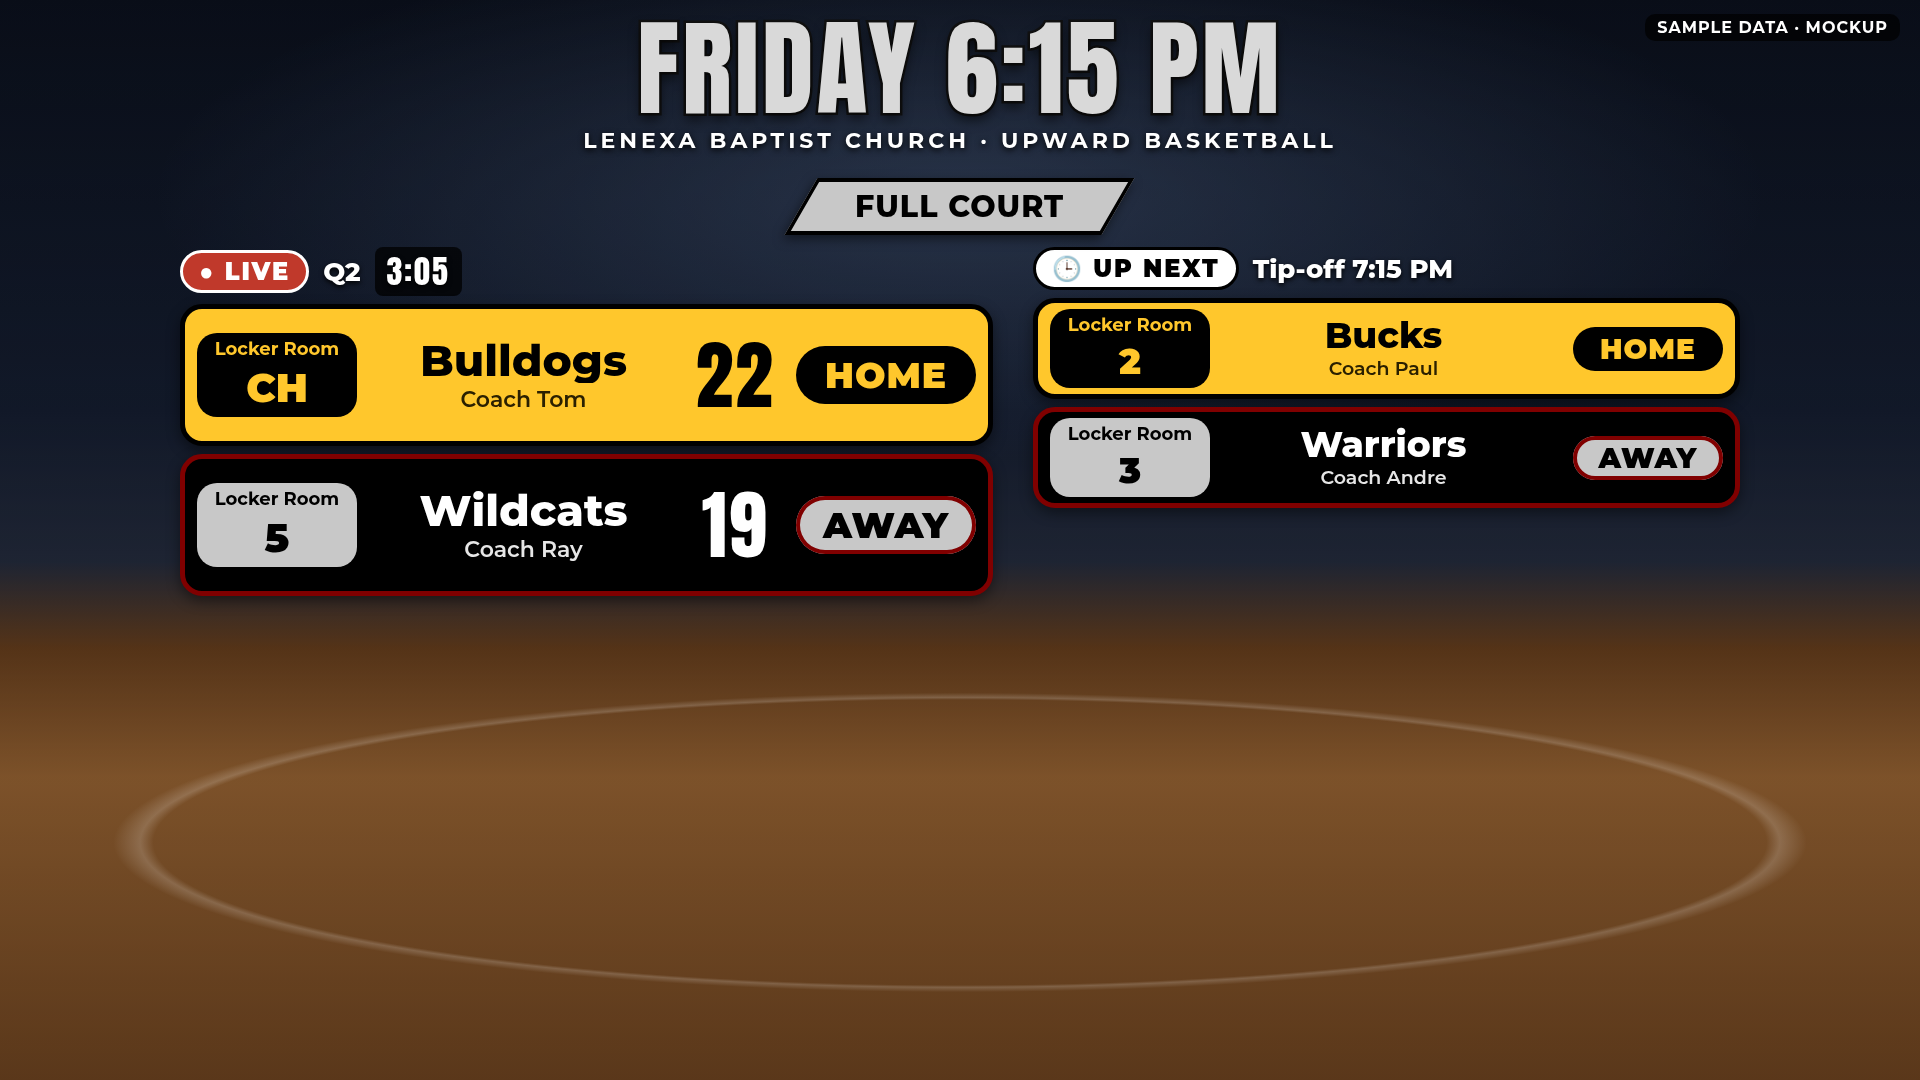
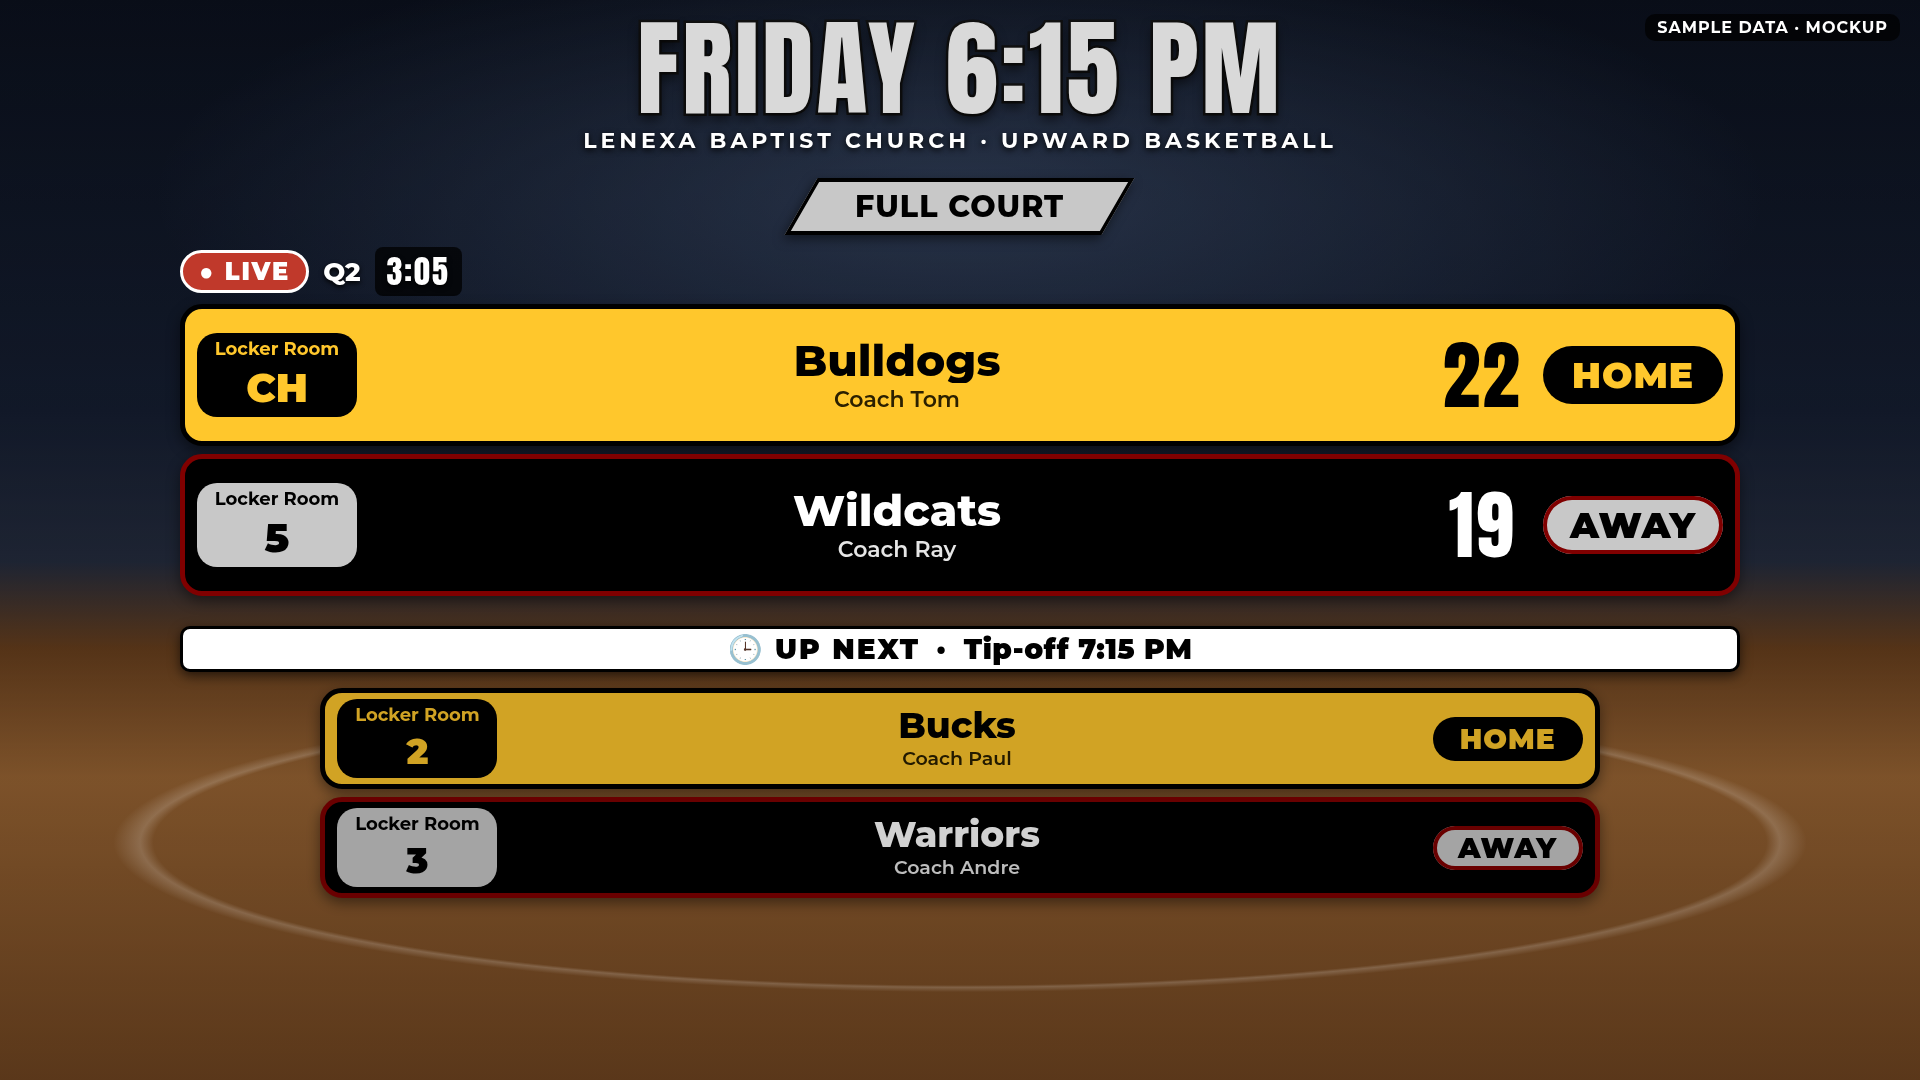
lobby-v2: single full-width UP NEXT bar, dimmer/smaller next rows, Friday next below

Changed region(s): [[0.0938, 0.5806, 0.9062, 0.8556], [0.2188, 0.2139, 0.9062, 0.55]]

diff --git a/deliverables/mockups/lobby-v2/saturday-split.html b/deliverables/mockups/lobby-v2/saturday-split.html
@@ -14,11 +14,12 @@
 <div class="row cheer span" data-row="cheer"><div class="locker" data-bind="locker"><small>Locker Room</small><b>1</b></div>
       <div class="who"><div class="name" data-bind="name">Pep Power</div><div class="coach" data-bind="coach">Coach Tasha</div></div><span class="side">CHEER</span></div></section>
 
+<section class="next-bar" data-slot="next" data-state="upcoming"><span class="nb-label">🕒 UP NEXT</span><span class="nb-dot">·</span><span class="nb-time">Tip-off <span data-bind="time">12:00 PM</span></span></section>
 <div class="band next">
-<div class="court" data-court="west"><section class="game next" data-slot="next" data-state="upcoming"><div class="status"><span class="tag next">🕒 UP NEXT</span><span class="when">Tip-off <span data-bind="time">12:00 PM</span></span></div><div class="row home" data-row="home"><div class="locker" data-bind="locker"><small>Locker Room</small><b>2</b></div>
+<div class="court" data-court="west"><section class="game next" data-slot="next" data-state="upcoming"><div class="row home" data-row="home"><div class="locker" data-bind="locker"><small>Locker Room</small><b>2</b></div>
       <div class="who"><div class="name" data-bind="name">Lady Bearcats</div><div class="coach" data-bind="coach">Coach Erin</div></div><span></span><span class="side">HOME</span></div><div class="row away" data-row="away"><div class="locker" data-bind="locker"><small>Locker Room</small><b>3</b></div>
       <div class="who"><div class="name" data-bind="name">Lady Sparks</div><div class="coach" data-bind="coach">Coach Jen</div></div><span></span><span class="side">AWAY</span></div></section></div>
-<div class="court" data-court="east"><section class="game next" data-slot="next" data-state="upcoming"><div class="status"><span class="tag next">🕒 UP NEXT</span><span class="when">Tip-off <span data-bind="time">12:00 PM</span></span></div><div class="row home" data-row="home"><div class="locker" data-bind="locker"><small>Locker Room</small><b>CH</b></div>
+<div class="court" data-court="east"><section class="game next" data-slot="next" data-state="upcoming"><div class="row home" data-row="home"><div class="locker" data-bind="locker"><small>Locker Room</small><b>CH</b></div>
       <div class="who"><div class="name" data-bind="name">Lady Cardinals</div><div class="coach" data-bind="coach">Coach Amy</div></div><span></span><span class="side">HOME</span></div><div class="row away" data-row="away"><div class="locker" data-bind="locker"><small>Locker Room</small><b>4</b></div>
       <div class="who"><div class="name" data-bind="name">Lady Razorbacks</div><div class="coach" data-bind="coach">Coach Kim</div></div><span></span><span class="side">AWAY</span></div></section></div>
 </div>

diff --git a/deliverables/mockups/lobby-v2/friday-full.html b/deliverables/mockups/lobby-v2/friday-full.html
@@ -5,6 +5,7 @@
 <div class="court" data-court="full"><div class="tab"><span>FULL COURT</span></div>
 <div class="pair"><section class="game live" data-slot="now" data-state="live"><div class="status"><span class="tag live">● LIVE</span><span class="when">Q2</span><span class="clock" data-bind="clock">3:05</span></div><div class="row home" data-row="home"><div class="locker" data-bind="locker"><small>Locker Room</small><b>CH</b></div>
       <div class="who"><div class="name" data-bind="name">Bulldogs</div><div class="coach" data-bind="coach">Coach Tom</div></div><span class="score" data-bind="home-score">22</span><span class="side">HOME</span></div><div class="row away" data-row="away"><div class="locker" data-bind="locker"><small>Locker Room</small><b>5</b></div>
-      <div class="who"><div class="name" data-bind="name">Wildcats</div><div class="coach" data-bind="coach">Coach Ray</div></div><span class="score" data-bind="away-score">19</span><span class="side">AWAY</span></div></section><section class="game next" data-slot="next" data-state="upcoming"><div class="status"><span class="tag next">🕒 UP NEXT</span><span class="when">Tip-off <span data-bind="time">7:15 PM</span></span></div><div class="row home" data-row="home"><div class="locker" data-bind="locker"><small>Locker Room</small><b>2</b></div>
+      <div class="who"><div class="name" data-bind="name">Wildcats</div><div class="coach" data-bind="coach">Coach Ray</div></div><span class="score" data-bind="away-score">19</span><span class="side">AWAY</span></div></section><section class="next-bar" data-slot="next" data-state="upcoming"><span class="nb-label">🕒 UP NEXT</span><span class="nb-dot">·</span><span class="nb-time">Tip-off <span data-bind="time">7:15 PM</span></span></section>
+<section class="game next" data-slot="next" data-state="upcoming"><div class="row home" data-row="home"><div class="locker" data-bind="locker"><small>Locker Room</small><b>2</b></div>
       <div class="who"><div class="name" data-bind="name">Bucks</div><div class="coach" data-bind="coach">Coach Paul</div></div><span></span><span class="side">HOME</span></div><div class="row away" data-row="away"><div class="locker" data-bind="locker"><small>Locker Room</small><b>3</b></div>
       <div class="who"><div class="name" data-bind="name">Warriors</div><div class="coach" data-bind="coach">Coach Andre</div></div><span></span><span class="side">AWAY</span></div></section></div></div></main><div class="sample">SAMPLE DATA · MOCKUP</div></body></html>

diff --git a/deliverables/mockups/lobby-v2/lobby.css b/deliverables/mockups/lobby-v2/lobby.css
@@ -104,3 +104,22 @@ main.split .band.next .locker { min-height: 6.2rem; }
 main.split .cheer-band.now .row { min-height: 9rem; }
 .sample { bottom: auto; top: 1.4rem; }
 main.split { gap: .7rem; }
+
+/* ---- UP NEXT bar (Aaron 3:00 PM): ONE full-width white bar replaces per-court UP NEXT pills ----
+   hook: section.next-bar[data-slot=next] with data-bind=time. Black on white 21:1; label is a word, not color. */
+.next-bar { display: flex; align-items: center; justify-content: center; gap: 1.6rem; width: 100%; box-sizing: border-box;
+  background: #fff; color: #000; border: .3rem solid #000; border-radius: 1rem; padding: .3rem 2rem;
+  font: 900 2.8rem "Montserrat"; letter-spacing: .2rem; box-shadow: 0 .4rem 1.2rem rgba(0,0,0,.6); }
+.next-bar .nb-time { letter-spacing: .05rem; }
+main.split .next-bar { margin-top: 1.6rem; }
+/* next games read as secondary: slightly smaller + dimmed (black on dimmed gold ≥10:1, #d9d9d9 on black ≥14:1) */
+.game.next .row { filter: brightness(.82); }
+main.split .band.next .row { min-height: 6.8rem; padding: .4rem 1.2rem; }
+main.split .band.next .locker { min-height: 5.8rem; } main.split .band.next .locker b { font-size: 3.2rem; }
+main.split .band.next .who .name { font-size: 3.2rem; }
+main.split .band.next .side { font-size: 2.5rem; min-width: 13rem; padding: .4rem 1.4rem; }
+.cheer-band.next .row.cheer { filter: brightness(.82); }
+/* Friday: next game BELOW the bar, not beside */
+.full .pair { grid-template-columns: 1fr; gap: 1.6rem; }
+.full .pair .next-bar { margin-top: 1.4rem; }
+.full .game.next { width: 82%; margin: 0 auto; }

diff --git a/deliverables/mockups/lobby-v2/data-needs.md b/deliverables/mockups/lobby-v2/data-needs.md
@@ -33,6 +33,9 @@ Shared style: `lobby.css`. All names are SAMPLE DATA.
 - Either way the TV payload gets one `cheer` object per slot (`now`, `next`), not per court; the scorekeeper never gets it.
 
 ## Hooks used in the HTML
+- **UP NEXT (Aaron, 3:00 PM):** ONE full-width `section.next-bar[data-slot="next"][data-state="upcoming"]` with
+  `data-bind="time"` ("UP NEXT · Tip-off 12:00 PM") replaces the per-court UP NEXT tags; next game sections carry no status
+  line. Next rows are slightly smaller and dimmed (all text ≥10:1). Friday: next game sits below the bar.
 `data-court=west|east|full`, `data-slot=now|next`, `data-row=home|away|cheer` (cheer row sits in a spanning
 `section.cheer-band[data-court="both"][data-slot=now|next]`, omitted when the slot has no squad), `data-state=live|upcoming`,
 `data-bind=header|name|coach|locker|time|clock|home-score|away-score`; empty locker → `.locker[data-empty]` (hidden,
